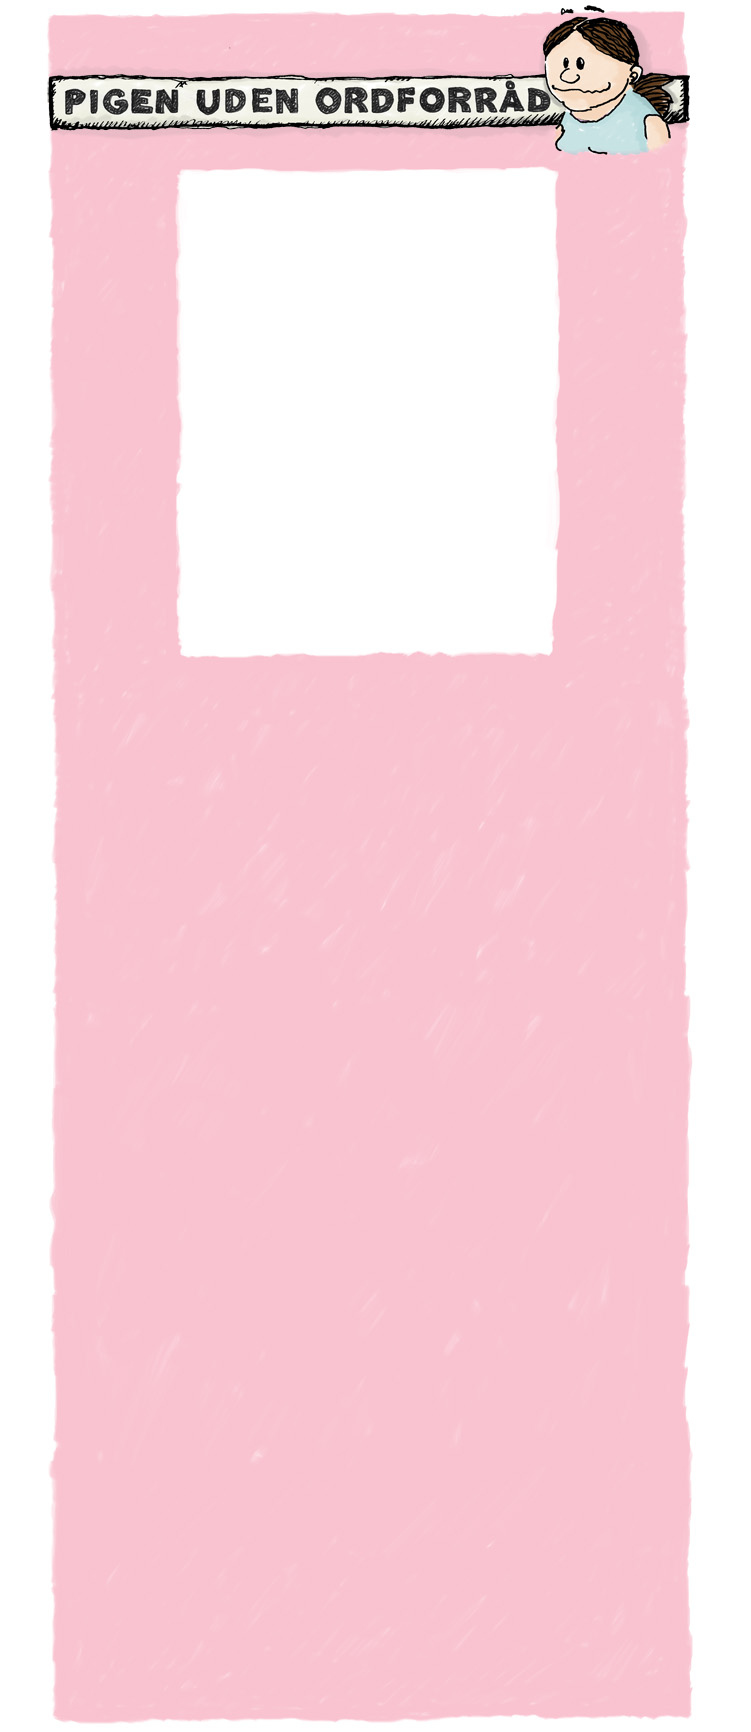
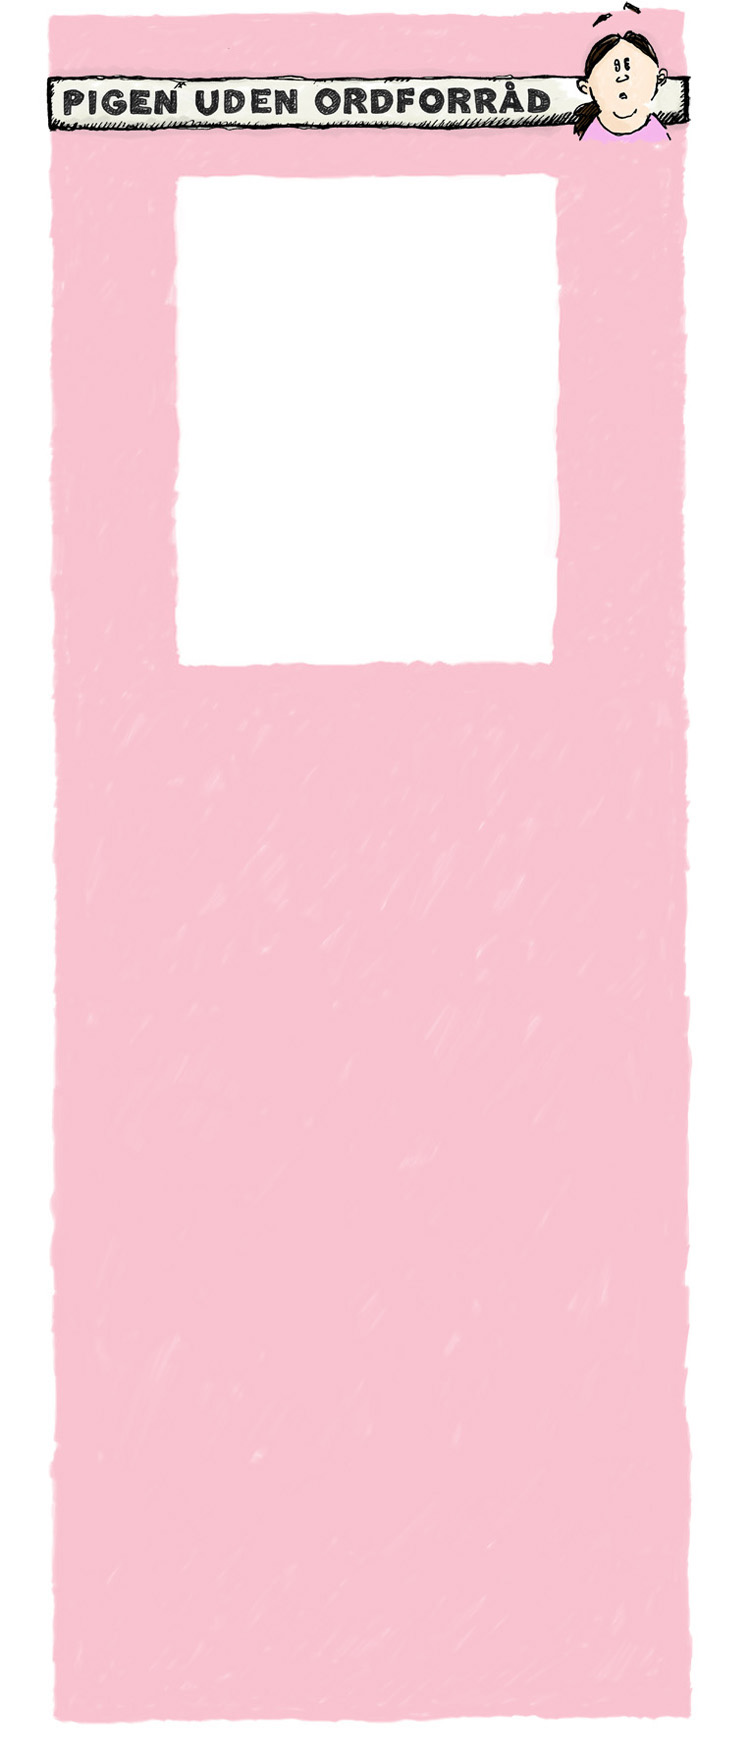
Add new main background
Missing 3 new backgrounds:

- mobile main
- mobile gallery
- gallery

diff --git a/css/style.css b/css/style.css
@@ -148,7 +148,7 @@ div#container {
   margin-top: 10px;
 }
 div#header {
-  height: 148px;
+  height: 155px;
   margin-bottom: 31px;
   margin-top: 0px;
 }
